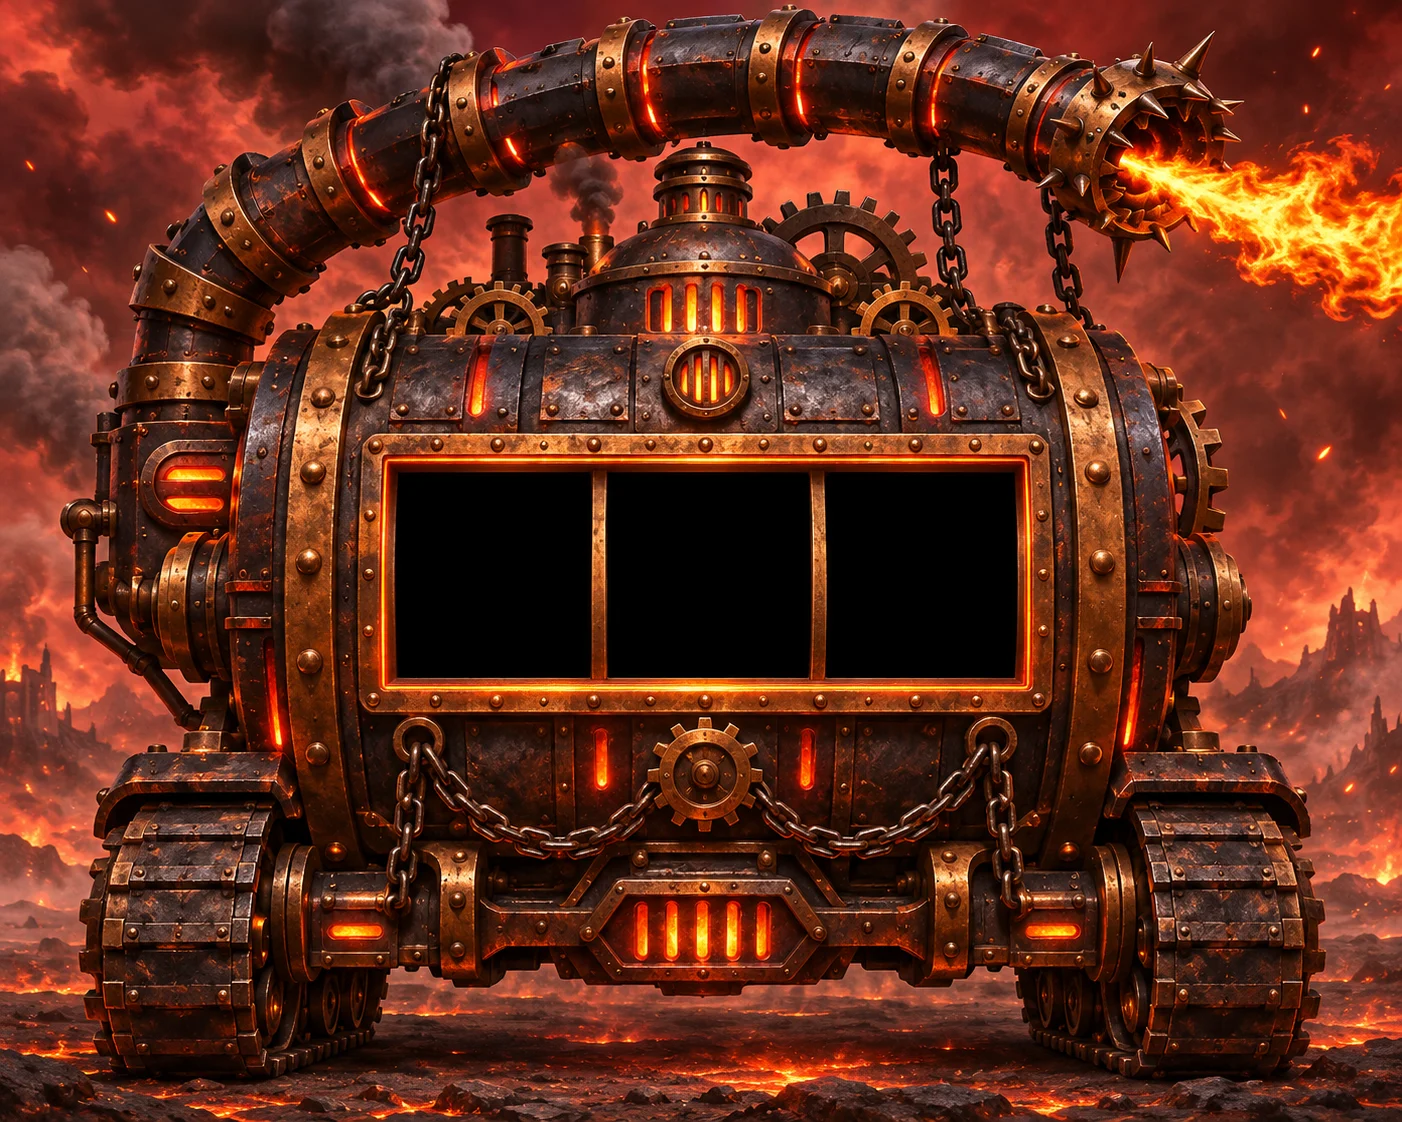
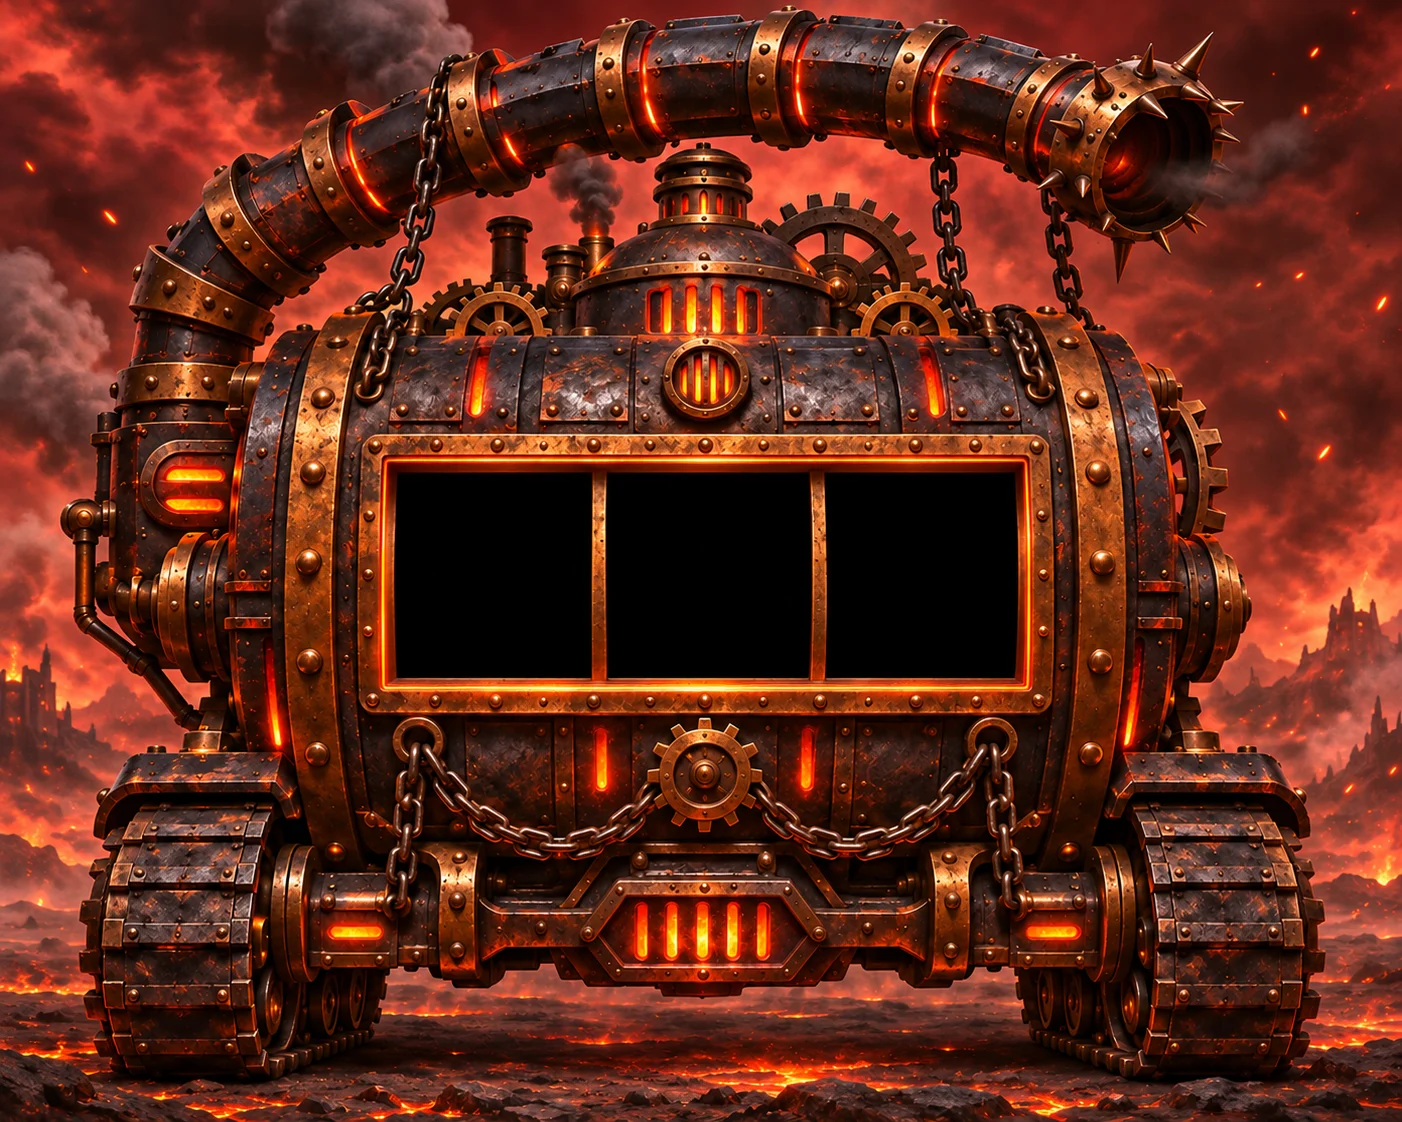
Atelier : TAC-002 sans flammes dessinées, le jet animé sort seul du canon
Claude-Session: https://claude.ai/code/session_01TLmmWny1Ma2GnNDv7NSPFq

diff --git a/apps/web/src/views/workshop/page.tsx b/apps/web/src/views/workshop/page.tsx
@@ -67,8 +67,8 @@ const ART_AT = {
   '--rod-h': pct(502, 725),
   '--base-y': pct(631 - 61, 725),
   // The cannon's muzzle, where its flames start.
-  '--flame-x': pct(1190, ART_W),
-  '--flame-y': pct(95, ART_H),
+  '--flame-x': pct(1150, ART_W),
+  '--flame-y': pct(69, ART_H),
   '--flame-w': pct(620, ART_W),
   '--fire-x': pct(1052, ART_W),
   '--fire-y': pct(56, ART_H),
